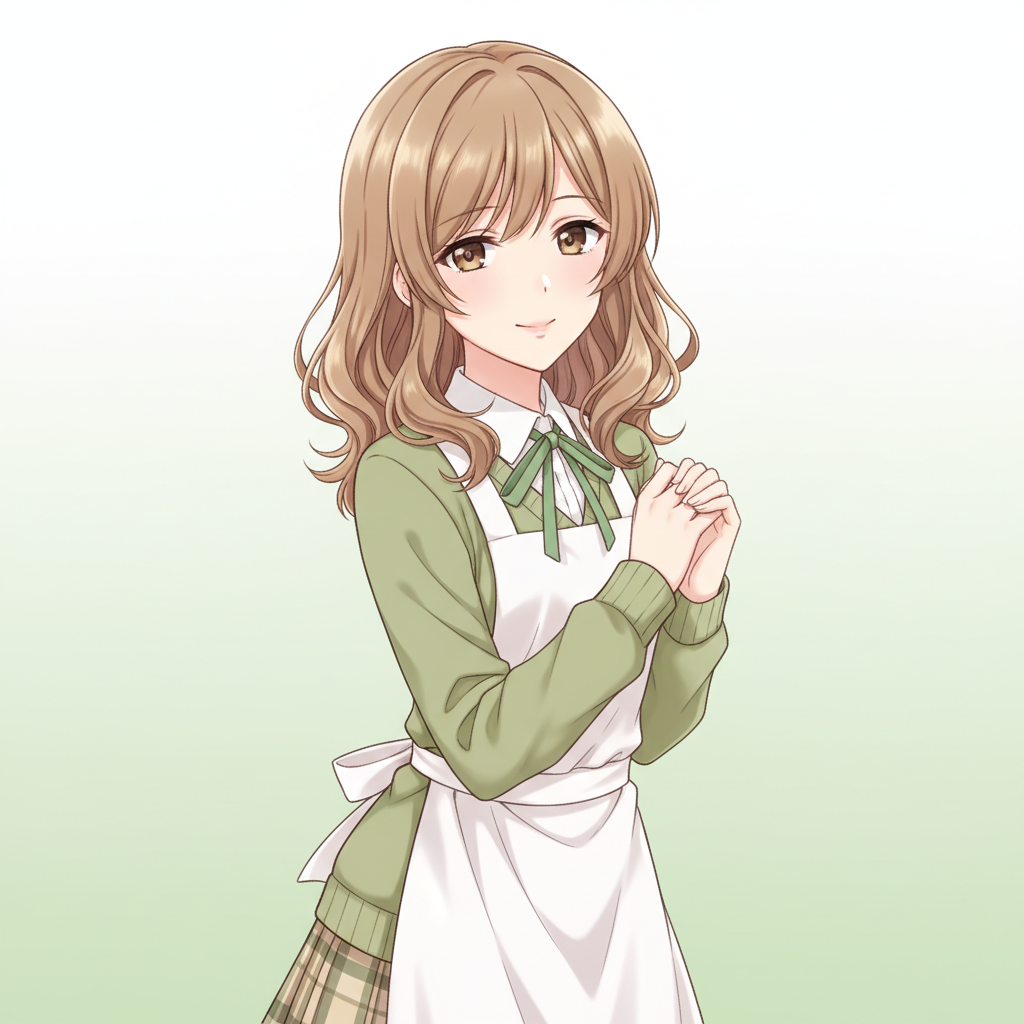
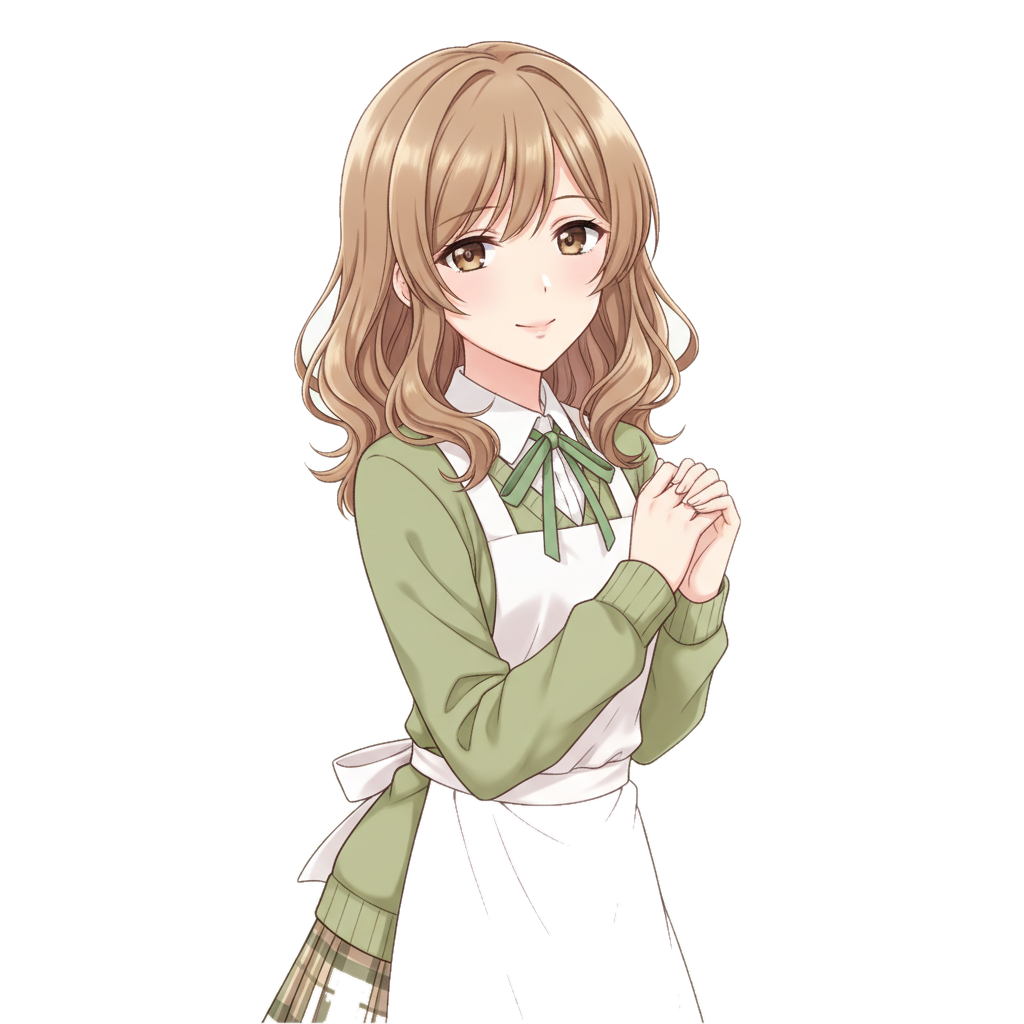
[feat] 画像背景除去・円形タイマー・正解ドット表示・立ち絵位置調整
- キャラ画像の背景をフラッドフィルで透過処理（mix-blend-mode削除）
- タイマーを細いバーから円形SVGタイマーに変更（秒数表示付き）
- 残り5秒で赤く脈動するアニメーション追加
- 正解数をドットインジケーターで視覚的に表示（正解=緑、不正解=赤）
- キャラ立ち絵の表示位置を下に移動（bottom 180→120px）

https://claude.ai/code/session_019ArQQrmvB98WHkE7Bwgx5B

diff --git a/css/style.css b/css/style.css
@@ -413,7 +413,7 @@ body {
 /* キャラクターバストアップ */
 .quiz-chara-container {
   position: absolute;
-  bottom: 180px;
+  bottom: 120px;
   left: 50%;
   transform: translateX(-50%);
   z-index: 1;
@@ -426,7 +426,6 @@ body {
   object-fit: contain;
   filter: drop-shadow(0 4px 20px rgba(0, 0, 0, 0.3));
   transition: transform 0.3s ease;
-  mix-blend-mode: multiply;
 }
 
 .quiz-chara-container.react-correct .quiz-chara-img {
@@ -524,29 +523,106 @@ body {
   text-shadow: 0 1px 4px rgba(0, 0, 0, 0.5);
 }
 
+/* 円形タイマー */
+.timer-circle-container {
+  position: relative;
+  width: 44px;
+  height: 44px;
+}
+
+.timer-circle-svg {
+  width: 44px;
+  height: 44px;
+  transform: rotate(-90deg);
+}
+
+.timer-circle-bg {
+  fill: none;
+  stroke: rgba(255, 255, 255, 0.15);
+  stroke-width: 3;
+}
+
+.timer-circle-bar {
+  fill: none;
+  stroke: #60d0ff;
+  stroke-width: 3;
+  stroke-linecap: round;
+  transition: stroke-dashoffset 0.1s linear, stroke 0.3s;
+}
+
+.timer-circle-bar.warning {
+  stroke: #fbbf24;
+}
+
+.timer-circle-bar.danger {
+  stroke: #ef4444;
+}
+
+.timer-text {
+  position: absolute;
+  top: 50%;
+  left: 50%;
+  transform: translate(-50%, -50%);
+  font-size: 14px;
+  font-weight: 900;
+  color: #fff;
+  text-shadow: 0 1px 4px rgba(0, 0, 0, 0.6);
+  line-height: 1;
+}
+
+.timer-circle-container.pulse .timer-text {
+  animation: timerPulse 0.5s ease-in-out infinite;
+}
+
+@keyframes timerPulse {
+  0%, 100% { transform: translate(-50%, -50%) scale(1); }
+  50% { transform: translate(-50%, -50%) scale(1.2); color: #ef4444; }
+}
+
+/* 正解数ドットインジケーター */
+.quiz-score-dots {
+  display: flex;
+  gap: 4px;
+  align-items: center;
+  flex-wrap: wrap;
+  max-width: 130px;
+  justify-content: center;
+}
+
+.score-dot {
+  width: 10px;
+  height: 10px;
+  border-radius: 50%;
+  background: rgba(255, 255, 255, 0.15);
+  border: 1px solid rgba(255, 255, 255, 0.25);
+  transition: background 0.4s, border-color 0.4s, box-shadow 0.4s, transform 0.3s;
+}
+
+.score-dot.correct {
+  background: var(--color-correct);
+  border-color: var(--color-correct);
+  box-shadow: 0 0 6px rgba(16, 185, 129, 0.6);
+}
+
+.score-dot.wrong {
+  background: var(--color-wrong);
+  border-color: var(--color-wrong);
+  box-shadow: 0 0 6px rgba(239, 68, 68, 0.5);
+}
+
+.score-dot.current {
+  transform: scale(1.3);
+  border-color: #fff;
+  box-shadow: 0 0 8px rgba(255, 255, 255, 0.5);
+}
+
+/* 旧タイマーバー（互換用・非表示） */
 .timer-container {
-  width: 60px;
-  height: 6px;
-  background: rgba(0, 0, 0, 0.4);
-  border-radius: 3px;
-  overflow: hidden;
-  border: 1px solid rgba(255, 255, 255, 0.2);
+  display: none;
 }
 
 .timer-bar {
-  height: 100%;
-  width: 100%;
-  background: linear-gradient(90deg, #60d0ff, #80e0ff);
-  border-radius: 3px;
-  transition: width 0.1s linear;
-}
-
-.timer-bar.warning {
-  background: linear-gradient(90deg, #f59e0b, #fbbf24);
-}
-
-.timer-bar.danger {
-  background: linear-gradient(90deg, var(--color-wrong), #f87171);
+  display: none;
 }
 
 /* VNダイアログエリア */
@@ -990,11 +1066,30 @@ body {
   }
 
   .quiz-chara-container {
-    bottom: 170px;
+    bottom: 100px;
   }
 
   .quiz-chara-img {
     height: 500px;
+  }
+
+  .timer-circle-container {
+    width: 38px;
+    height: 38px;
+  }
+
+  .timer-circle-svg {
+    width: 38px;
+    height: 38px;
+  }
+
+  .timer-text {
+    font-size: 12px;
+  }
+
+  .score-dot {
+    width: 8px;
+    height: 8px;
   }
 
   .quiz-feedback {
@@ -1121,11 +1216,11 @@ body {
 /* 小さいスマホ向け */
 @media (max-height: 700px) and (max-width: 840px) {
   .quiz-chara-img {
-    height: 400px;
+    height: 380px;
   }
 
   .quiz-chara-container {
-    bottom: 155px;
+    bottom: 90px;
   }
 
   .quiz-feedback {

diff --git a/js/ui.js b/js/ui.js
@@ -110,21 +110,59 @@ class UiManager {
     }
   }
 
-  /* タイマーバーを更新する */
+  /* 円形タイマーを更新する */
   updateTimer(remaining, total) {
-    const bar = document.getElementById('timer-bar');
-    const container = bar.parentElement;
-    const percent = Math.max(0, (remaining / total) * 100);
-    bar.style.width = `${percent}%`;
+    const circleBar = document.getElementById('timer-circle-bar');
+    const timerText = document.getElementById('timer-text');
+    const container = document.getElementById('timer-circle-container');
+    const circumference = 2 * Math.PI * 18; /* r=18 */
+    const offset = circumference * (1 - remaining / total);
+
+    circleBar.style.strokeDashoffset = offset;
+    timerText.textContent = Math.ceil(remaining);
 
     /* 残り時間に応じて色を変える */
-    bar.classList.remove('warning', 'danger');
+    circleBar.classList.remove('warning', 'danger');
     container.classList.remove('pulse');
     if (remaining <= 5) {
-      bar.classList.add('danger');
+      circleBar.classList.add('danger');
       container.classList.add('pulse');
     } else if (remaining <= 10) {
-      bar.classList.add('warning');
+      circleBar.classList.add('warning');
+    }
+  }
+
+  /* 正解数ドットを初期化する */
+  renderScoreDots(totalQuestions) {
+    const container = document.getElementById('quiz-score-dots');
+    container.innerHTML = '';
+    for (let i = 0; i < totalQuestions; i++) {
+      const dot = document.createElement('span');
+      dot.className = 'score-dot';
+      dot.dataset.index = i;
+      container.appendChild(dot);
+    }
+  }
+
+  /* 正解数ドットを更新する（現在の問題をハイライト） */
+  updateScoreDot(index, result) {
+    const dots = document.querySelectorAll('.score-dot');
+    if (dots[index]) {
+      dots[index].classList.remove('current');
+      dots[index].classList.add(result ? 'correct' : 'wrong');
+    }
+    /* 次の問題をハイライト */
+    if (dots[index + 1]) {
+      dots[index + 1].classList.add('current');
+    }
+  }
+
+  /* 現在の問題ドットをハイライトする */
+  highlightCurrentDot(index) {
+    const dots = document.querySelectorAll('.score-dot');
+    dots.forEach(d => d.classList.remove('current'));
+    if (dots[index]) {
+      dots[index].classList.add('current');
     }
   }
 

diff --git a/index.html b/index.html
@@ -65,11 +65,16 @@
           </div>
         </div>
         <div class="quiz-right-info">
-          <div class="quiz-progress">
-            <span id="quiz-number">1</span> / <span id="quiz-total">10</span>
+          <div id="quiz-score-dots" class="quiz-score-dots">
+            <!-- JSで動的生成 -->
           </div>
-          <div class="timer-container">
-            <div id="timer-bar" class="timer-bar"></div>
+          <div class="timer-circle-container" id="timer-circle-container">
+            <svg class="timer-circle-svg" viewBox="0 0 44 44">
+              <circle class="timer-circle-bg" cx="22" cy="22" r="18"></circle>
+              <circle id="timer-circle-bar" class="timer-circle-bar" cx="22" cy="22" r="18"
+                stroke-dasharray="113.1" stroke-dashoffset="0"></circle>
+            </svg>
+            <span id="timer-text" class="timer-text">15</span>
           </div>
         </div>
       </div>

diff --git a/js/game.js b/js/game.js
@@ -78,6 +78,8 @@ class GameEngine {
   startQuiz(heroineId) {
     this.heroineManager.selectHeroine(heroineId);
     this.ui.showScreen('quiz');
+    this.ui.renderScoreDots(QUIZ_COUNT);
+    this.ui.highlightCurrentDot(0);
     this.showCurrentQuiz();
   }
 
@@ -136,6 +138,7 @@ class GameEngine {
 
     this.audio[result.isCorrect ? 'playCorrect' : 'playWrong']();
     this.ui.showAnswerResult(result, choiceIndex);
+    this.ui.updateScoreDot(this.heroineManager.currentQuizIndex, isCorrect);
 
     /* フィードバック表示後に次へ進む */
     setTimeout(() => {
@@ -158,6 +161,7 @@ class GameEngine {
     result.correctIndex = this.currentShuffledCorrectIndex;
     this.audio.playTimeout();
     this.ui.showTimeoutResult(result);
+    this.ui.updateScoreDot(this.heroineManager.currentQuizIndex, false);
 
     setTimeout(() => {
       const isFinished = this.heroineManager.nextQuiz();
